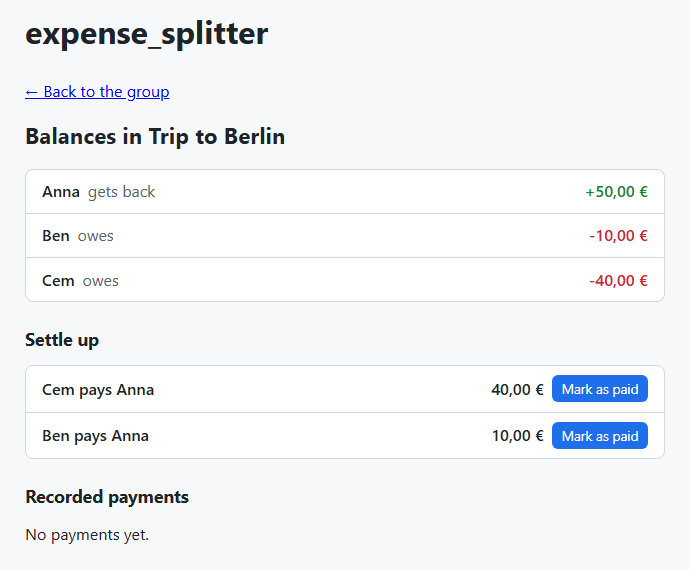
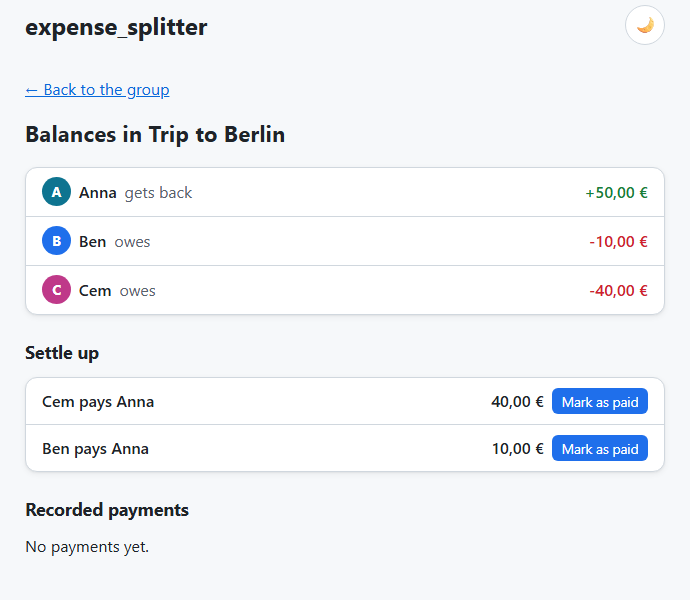
update/Show the new design in both themes in the README

diff --git a/README.md b/README.md
@@ -8,7 +8,9 @@ A full-stack web app for splitting group expenses, inspired by apps like Settle 
 
 | A group with its members and expenses | Balances and suggested transfers |
 |---|---|
-| ![Group page with the members Anna, Ben and Cem and two expenses](assets/web-group.png) | ![Balances page: Anna +50, Ben -10, Cem -40, and two transfers to settle up](assets/web-balances.png) |
+| <picture><source media="(prefers-color-scheme: dark)" srcset="assets/web-group-dark.png"><img alt="Group page with the members Anna, Ben and Cem and two expenses" src="assets/web-group.png"></picture> | <picture><source media="(prefers-color-scheme: dark)" srcset="assets/web-balances-dark.png"><img alt="Balances page: Anna +50, Ben -10, Cem -40, and two transfers to settle up" src="assets/web-balances.png"></picture> |
+
+The app has a light and a dark theme: it follows the setting of your phone or computer, and the button in the top right switches it by hand. A short message confirms every action, deleting an expense asks first, and the pages fade in with grey placeholders while data is loading.
 
 ## Run it
 
@@ -116,7 +118,7 @@ cd frontend
 npm test
 ```
 
-The 18 frontend tests use Vitest and React Testing Library. They render the pages with a fake backend and check what the user sees, for example the balances and the error messages.
+The 26 frontend tests use Vitest and React Testing Library. They render the pages with a fake backend and check what the user sees, for example the balances and the error messages.
 
 GitHub Actions runs three jobs on every push to `main` and on every pull request: the backend tests, the frontend lint, tests and build, and a Docker build of both images.
 
